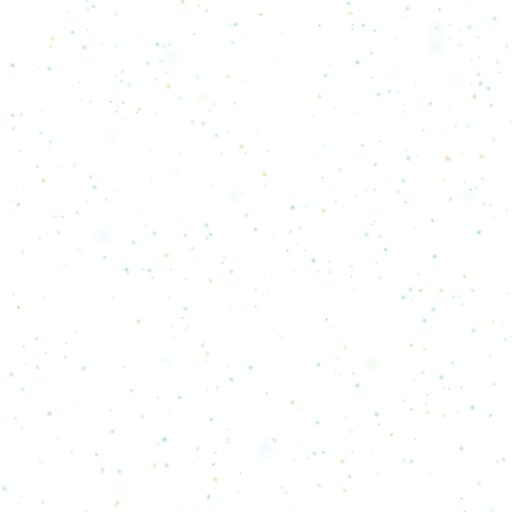
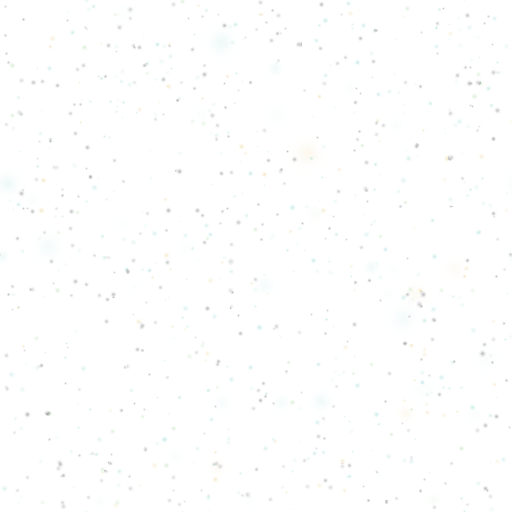
Make the dust visible, and stop printing it on the flow
Two things, both of which came down to the same mistake in different
places: a layer that was there and a layer that was seen were not the
same layer.

THE ORB

The particles were too faint against the field, and there were three
reasons rather than one dial to turn.

They were being thrown away on the way to the screen. The plate is 512px
and the orb is 236 points wide, so the browser averages roughly every
2.2x2.2 block into one pixel. A speck drawn 2px across arrives under a
pixel wide with most of its contrast averaged into the field around it,
which is why the first dense pass looked exactly as faint as the sparse
one. The drawn specks are now sized against that ratio, because what
reaches the screen is the average of the speck and the field it sits in,
not the speck. Coverage 7% to 17%.

They were all light. Every speck brighter than the field is one that
disappears as the field brightens, and a field of only highlights has no
texture, just haze. Just over a third of the drawn specks are dark now,
from the deep end of the orb's own palette. Not half: at half the two
cancel into a flat speckled grey, because shadow is there to give the
highlights something to be brighter THAN, and once there is as much of it
as there is light it stops being shadow and becomes the colour of the
thing. Light specks are summed and dark ones composited over, because
light adds and shadow does not.

This reverses what the last commit said about there being no dark dust in
[…]

diff --git a/app/src/components/grain.tsx b/app/src/components/grain.tsx
@@ -191,7 +191,7 @@ export function DustField() {
         top: -TILE * 2,
         width: width + TILE * 2,
         height: height + TILE * 4,
-        opacity: 0.85,
+        opacity: 0.62,
         transform: [
           { translateX: drift.interpolate({ inputRange: [0, 1], outputRange: [0, TILE] }) },
           { translateY: drift.interpolate({ inputRange: [0, 1], outputRange: [0, -TILE * 2] }) },
@@ -316,11 +316,17 @@ export function GrainOrb() {
         />
       </Animated.View>
 
-      {/* The floor the moving particles sit on, not the effect itself. */}
+      {/*
+        A floor under the moving particles, and only that.
+
+        It was at 0.38, which made the still layer compete with the moving
+        one instead of supporting it. Held down to 0.16 it does what it is
+        for: stops the field reading as flat colour between specks.
+      */}
       <Image
         source={GRAIN}
         resizeMode="repeat"
-        style={{ position: "absolute", width: ORB, height: ORB, opacity: 0.38 }}
+        style={{ position: "absolute", width: ORB, height: ORB, opacity: 0.16 }}
       />
 
       <Svg width={ORB} height={ORB} style={{ position: "absolute" }} pointerEvents="none">
@@ -389,13 +395,16 @@ export function GrainWash() {
         <Rect width={width} height={height} fill="url(#washFade)" />
       </Svg>
 
-      <Image
-        source={GRAIN}
-        resizeMode="repeat"
-        style={{ position: "absolute", width, height, opacity: 0.42 }}
-      />
+      {/*
+        The flow's only texture, and it moves.
 
-      {/* Slower and sparser than the orb's: this is a page, not a subject. */}
+        There was a static noise tile over the whole screen at 0.42 here.
+        That was what anyone actually saw: a still photograph of grain,
+        with a few particles drifting somewhere behind it. No amount of
+        work on the moving layer shows through a still one laid on top at
+        that strength, so the still one is gone and the dust is denser to
+        take its place.
+      */}
       <DustField />
     </View>
   );
